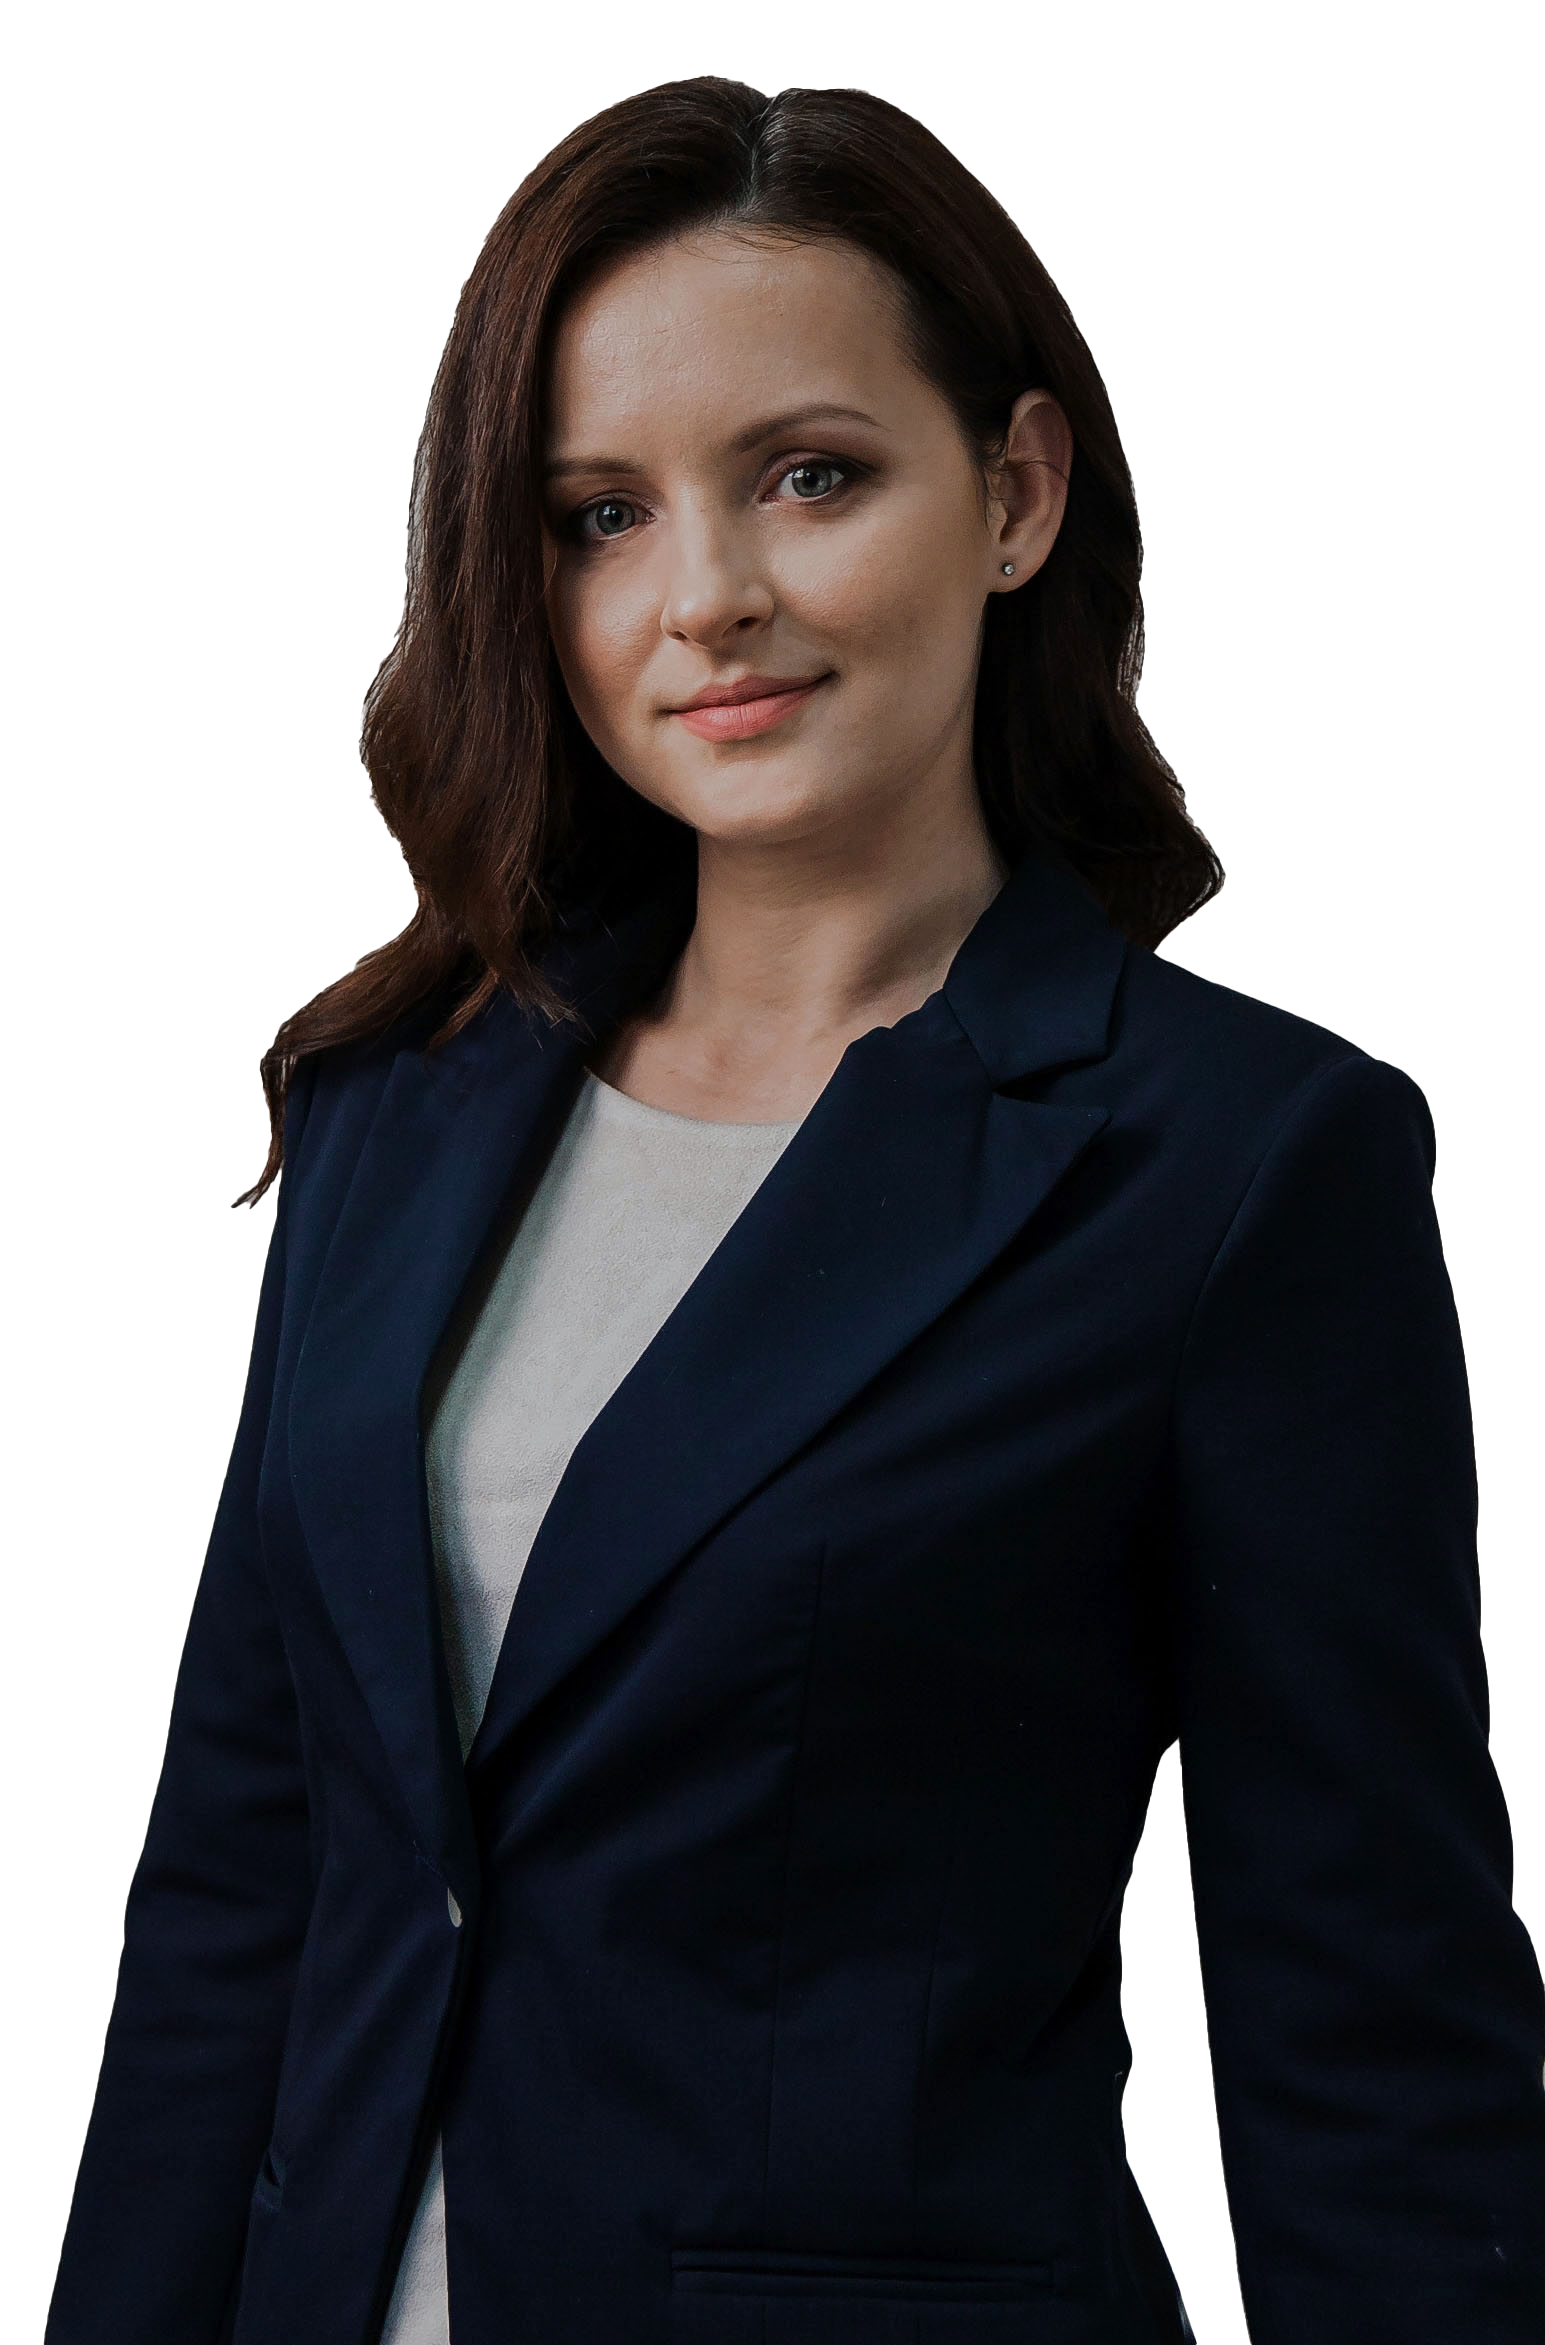
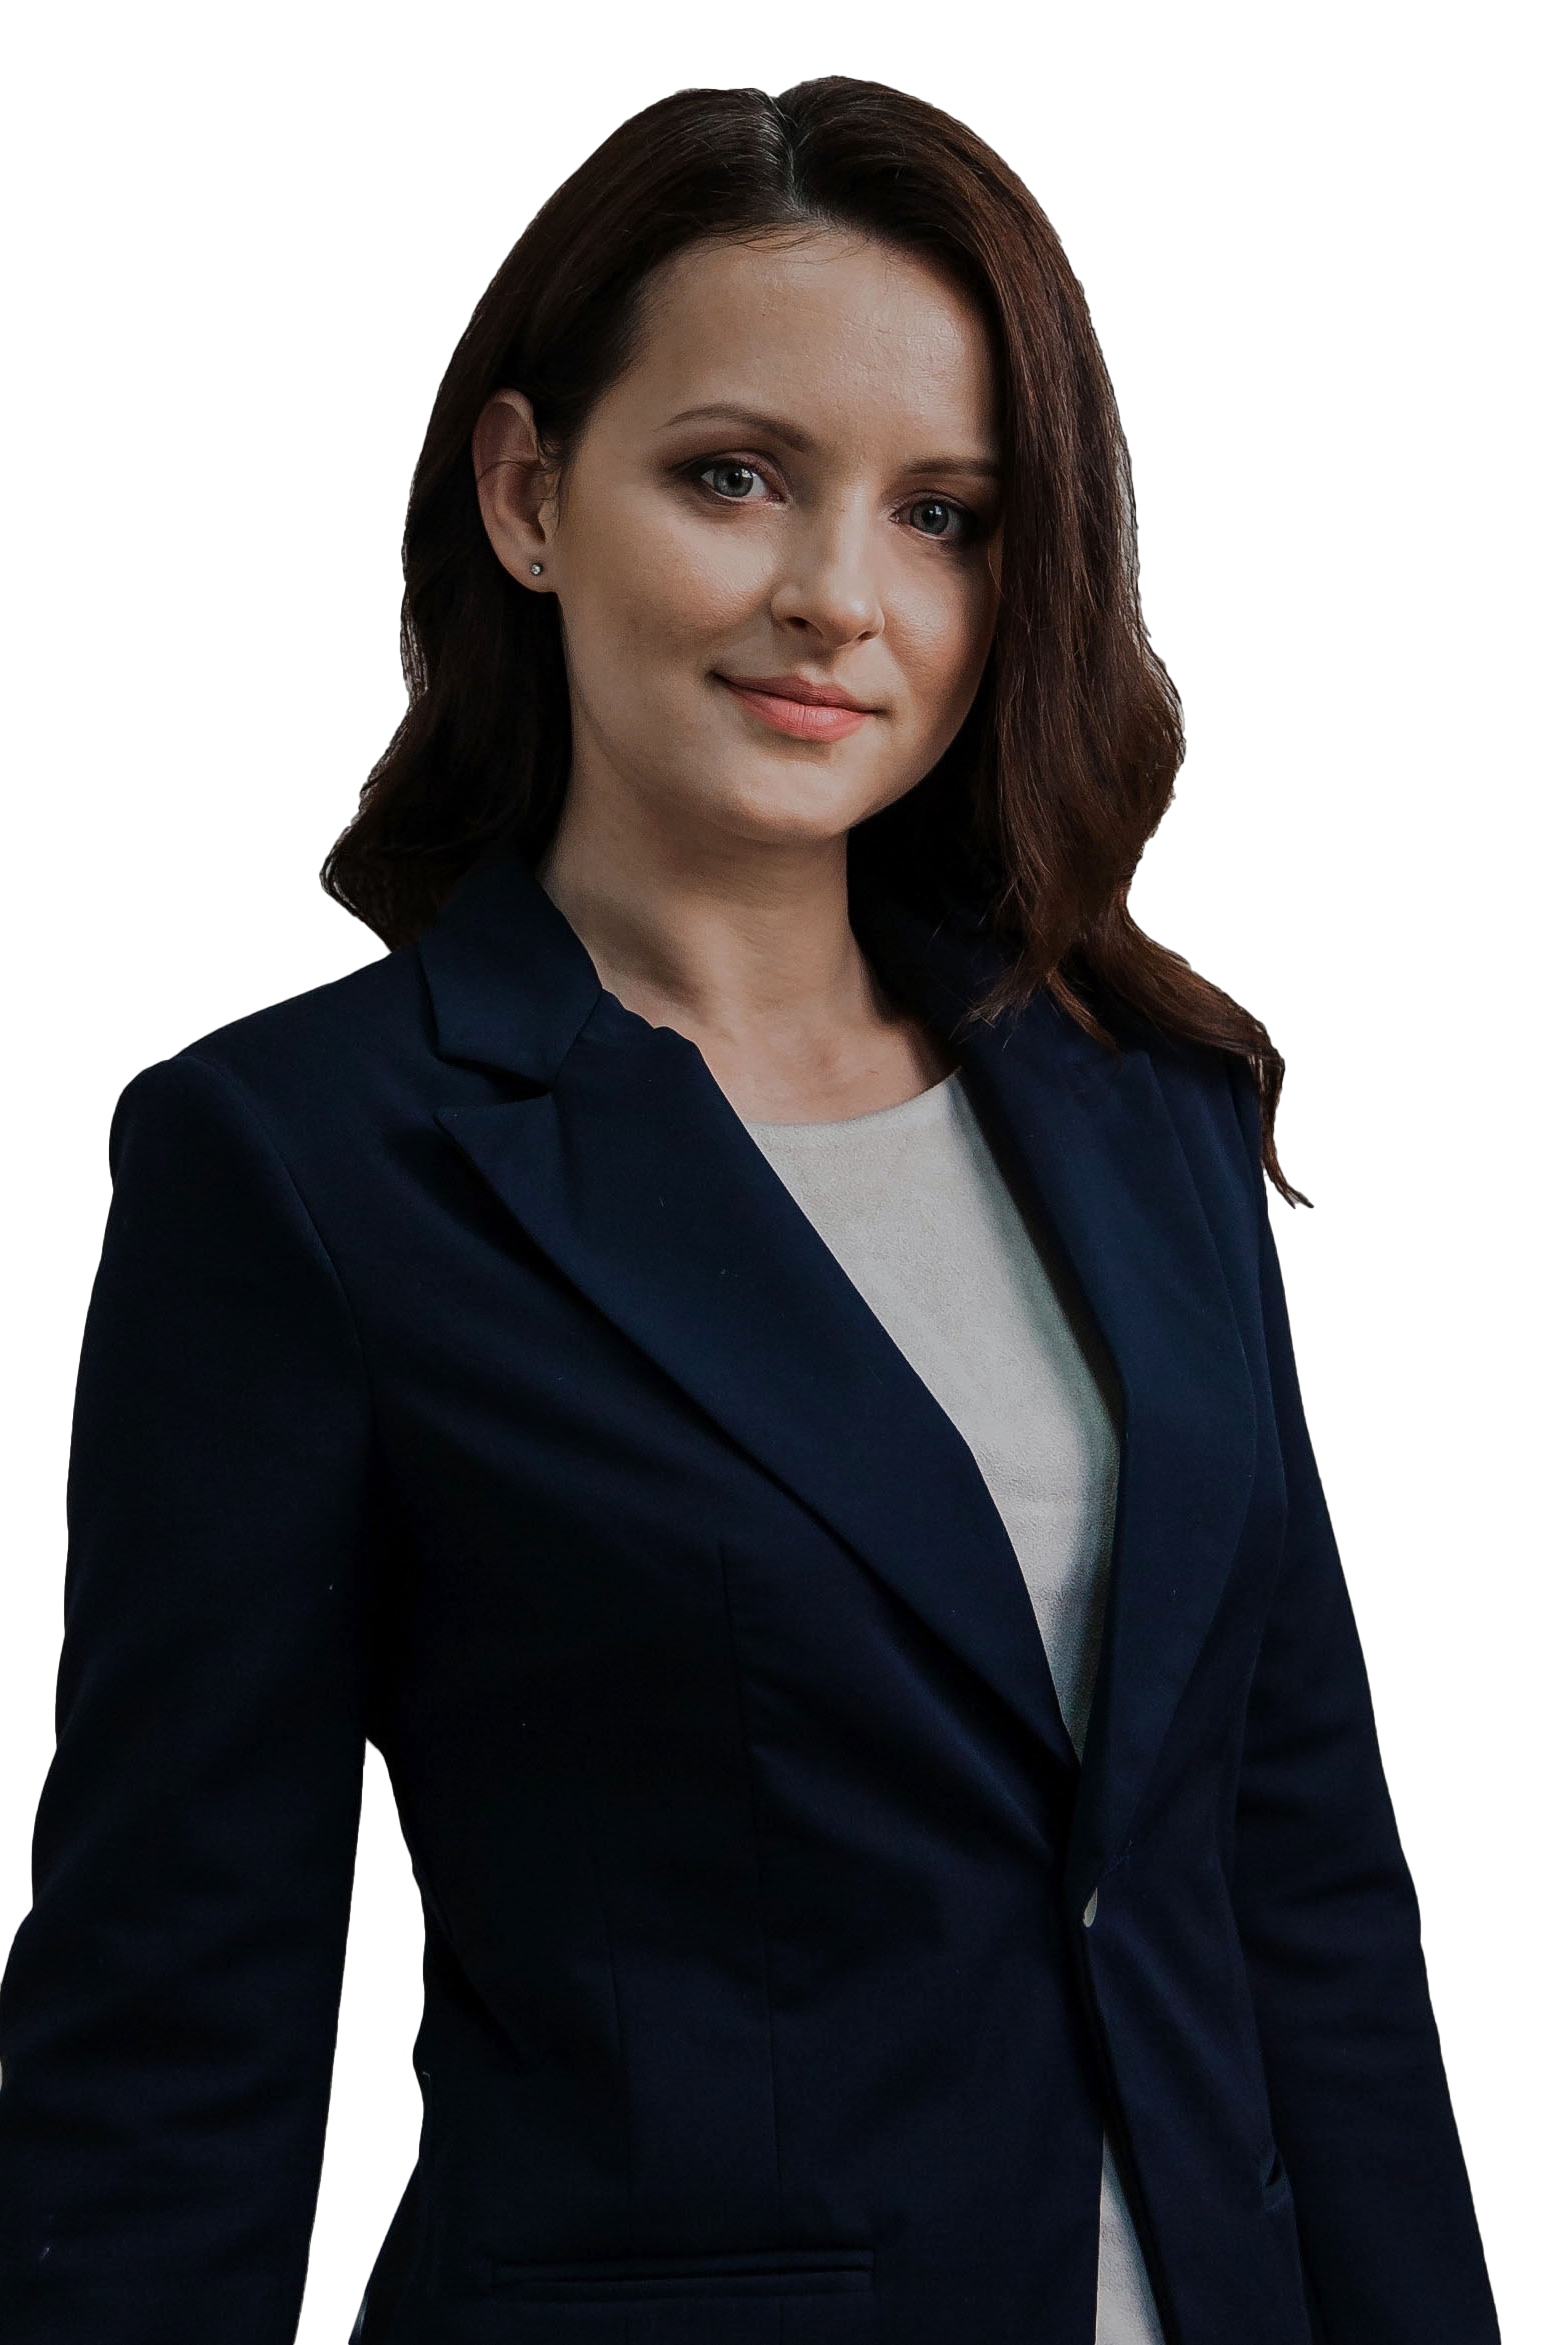
some design corrections of the about page

diff --git a/about.html b/about.html
@@ -81,6 +81,14 @@
     <div class="container-content container">
       <div class="content">
         <div class="row about-first-screen">
+          <div class="col-lg-5 about-section-img mb-3">
+            <img
+              class="img-fluid rounded"
+              src="/images/my_photo_v2.jpg"
+              alt="Anna Kohut"
+            />
+          </div>
+
           <div class="col-lg-7 mb-3">
             <div class="block-title mb-5">ABOUT ME</div>
             <h1 class="mb-2">Hi! I am, <span class="name">Anna Kohut</span></h1>
@@ -106,14 +114,6 @@
                 >See my projects</a
               >
             </div>
-          </div>
-
-          <div class="col-lg-5 about-section-img mb-3">
-            <img
-              class="img-fluid rounded"
-              src="/images/my_photo_v2.jpg"
-              alt="Anna Kohut"
-            />
           </div>
         </div>
 
@@ -201,12 +201,12 @@
               <div class="about-skills-name">Figma</div>
             </div>
             <div class="col about-skills">
-              <i class="fa-brands fa-github"></i>
-              <div class="about-skills-name">GitHub</div>
+              <i class="fa-brands fa-npm"></i>
+              <div class="about-skills-name">npm</div>
             </div>
             <div class="col about-skills">
-              <i class="fa-solid fa-cloud-arrow-up"></i>
-              <div class="about-skills-name">API</div>
+              <i class="fa-solid fa-font-awesome"></i>
+              <div class="about-skills-name">Font-awesome</div>
             </div>
             <div class="col about-skills">
               <i class="fa-solid fa-mobile-screen"></i>
